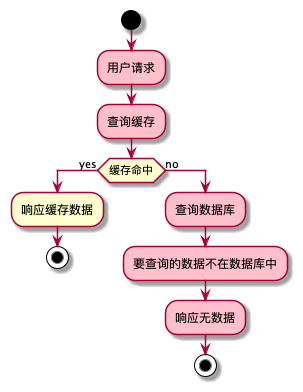
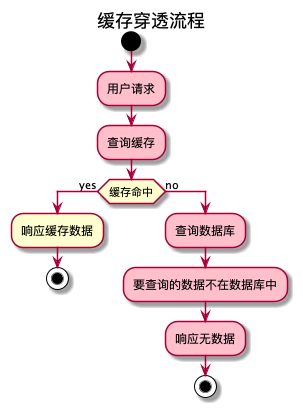
uml

Changed region(s): [[0.0297, 0.0, 0.9802, 0.9796]]

diff --git a/src/cache_practice.md b/src/cache_practice.md
@@ -9,6 +9,9 @@
 
 ## 读多写少
 
+
+### 不使用缓存
+
 例如我们在开发提问系统，提问访问量非常大，每秒一万次访问。
 
 最开始的伪代码如下：
@@ -30,6 +33,8 @@ function QuestionByID(id) {
 ```
 
 上线后发现数据库压力过大，服务延迟非常高，
+
+## 使用缓存
 
 为了解决次问题，使用缓存减少频繁的 sql 操作。
 
@@ -78,6 +83,8 @@ function QuestionByID(id) {
 
 
 > redis hash 的 feild 无法设置过期时间，可以通过定时任务使用 hscan 去检测 cache_expire_uinx_seconds 来实现 field 过期时间
+
+### 缓存击穿
 
 重新发布后，数据库压力大幅度减少。但部分新问题发布后还是会出现几秒短暂的sql连接数暴增。
 
@@ -154,10 +161,11 @@ function QuestionByID(id string, retry int) {
 
 在一种极端情况下：有出现大量的请求，成功上锁的那一个请求在上锁后因为各种原因线程中断了，导致没有解锁。此时会出现3秒内所有 QuestionByID 都不能响应数据。但这种情况出现的几率非常小，可根据业务场景来判断是否可以忽略。
 
+### 缓存穿透
 
 发布运行一段时间后一切正常，偶尔有一天发现当粉丝量很大的用户发布提问后又理解删除提问。发布提问时候推送消息已经推送到很多用户的手机中，用户阅读消息并点击访问提问。会进入如下流程：
 
-![](./cache_practice/1-3.png?=2)
+![](./cache_practice/1-3.png?=3)
 
 如图所示，所有的用户请求都进入了红色框线路。即使在同步缓存时使用互斥锁去减少数据库压力。在第一个上锁成功的用户没查到数据并解锁后还会有新的用户上锁>查询数据库->响应无数据。这就导致了**缓存穿透**
 
@@ -166,6 +174,8 @@ function QuestionByID(id string, retry int) {
 为了解决缓存穿透，需要在查询到不存在的数据时在缓存中标记数据不存在，以避免缓存穿透。
 
 ![](./cache_practice/1-4.png)
+
+![](./cache_practice/1-5.png)
 
 ```js
 function QuestionByID(id string, retry int) {
@@ -221,3 +231,13 @@ function QuestionByID(id string, retry int) {
   }
 }
 ```
+
+当数据量非常大时 hash 存储无效id会导致缓存数据过大，可以使用[布隆过滤器](https://www.dogedoge.com/results?q=%E5%B8%83%E9%9A%86%E8%BF%87%E6%BB%A4%E5%99%A8) 降低缓存大小。可以根据实际情况选择合适的方式。
+
+### 刷新缓存
+
+当提问数据修改或者删除时需要刷新缓存，若刷新缓存的方式是直接设置值则会在极端情况下出现缓存与数据不一致的问题。
+
+![](./cache_practice/1-6.png)
+![](./cache_practice/1-7.png)
+![](./cache_practice/1-8.png)
